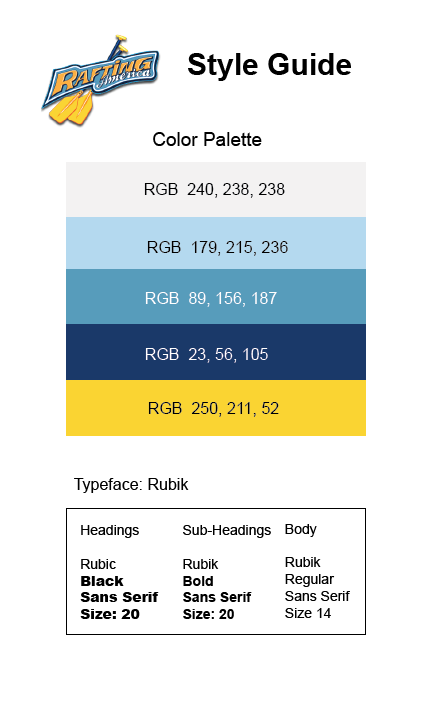
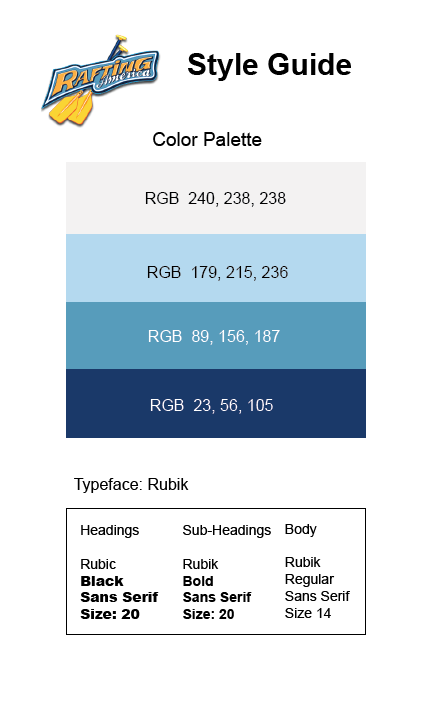
update

Changed region(s): [[0.1505, 0.2444, 0.8727, 0.6111]]

diff --git a/siteplan.html b/siteplan.html
@@ -76,7 +76,7 @@
             <p>Headings will be a dark-blue.</p>
             <p>Sub-headings will be in orange, or dark-blue.</p>
             <p>Body text will be black or dark-blue.</p>
-            <p>Highlights and links will be in dark-blue or yellow.</p>
+            <p>Highlights and links will be in dark-blue.</p>
             <img src="images/colorpalette2.png" alt="" />
         </section>
         <section>
